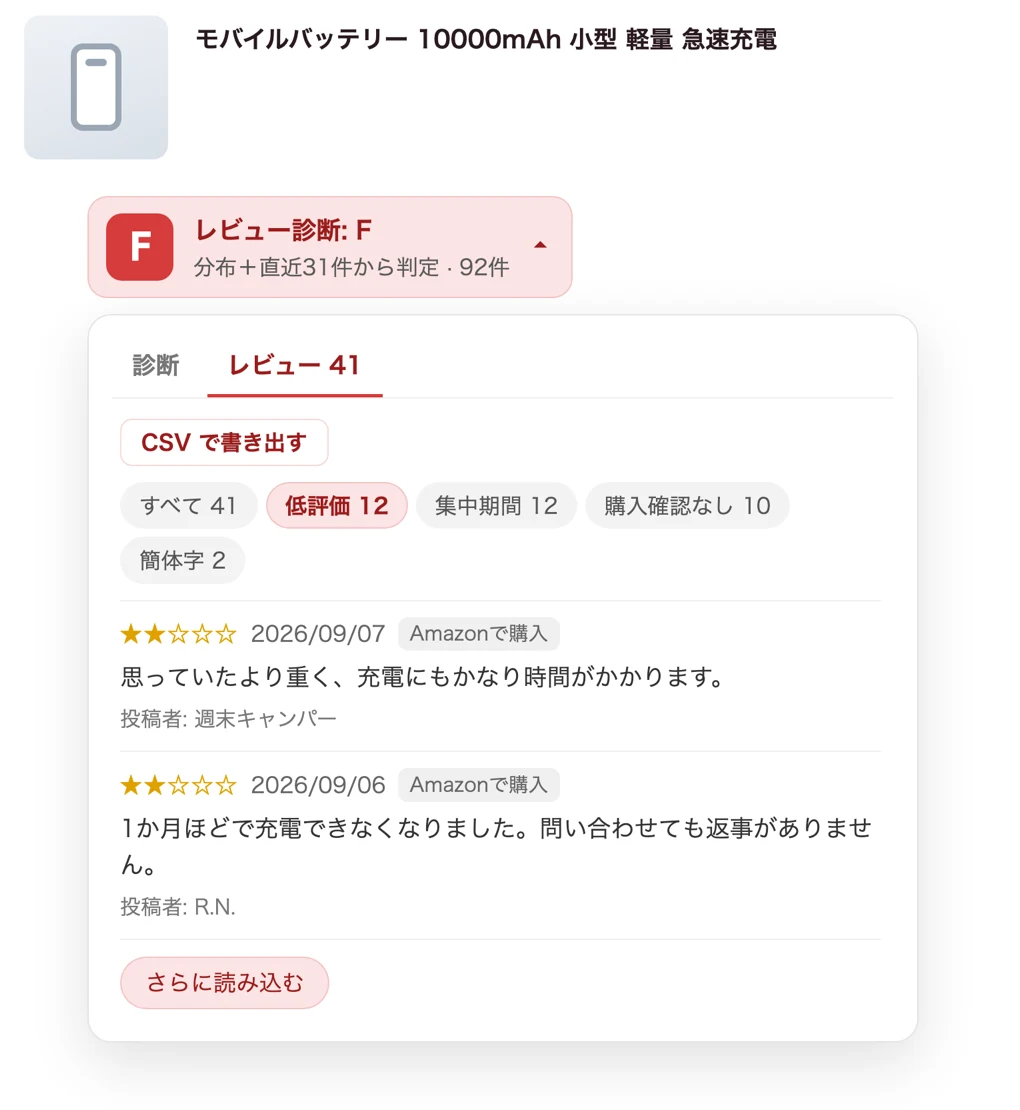
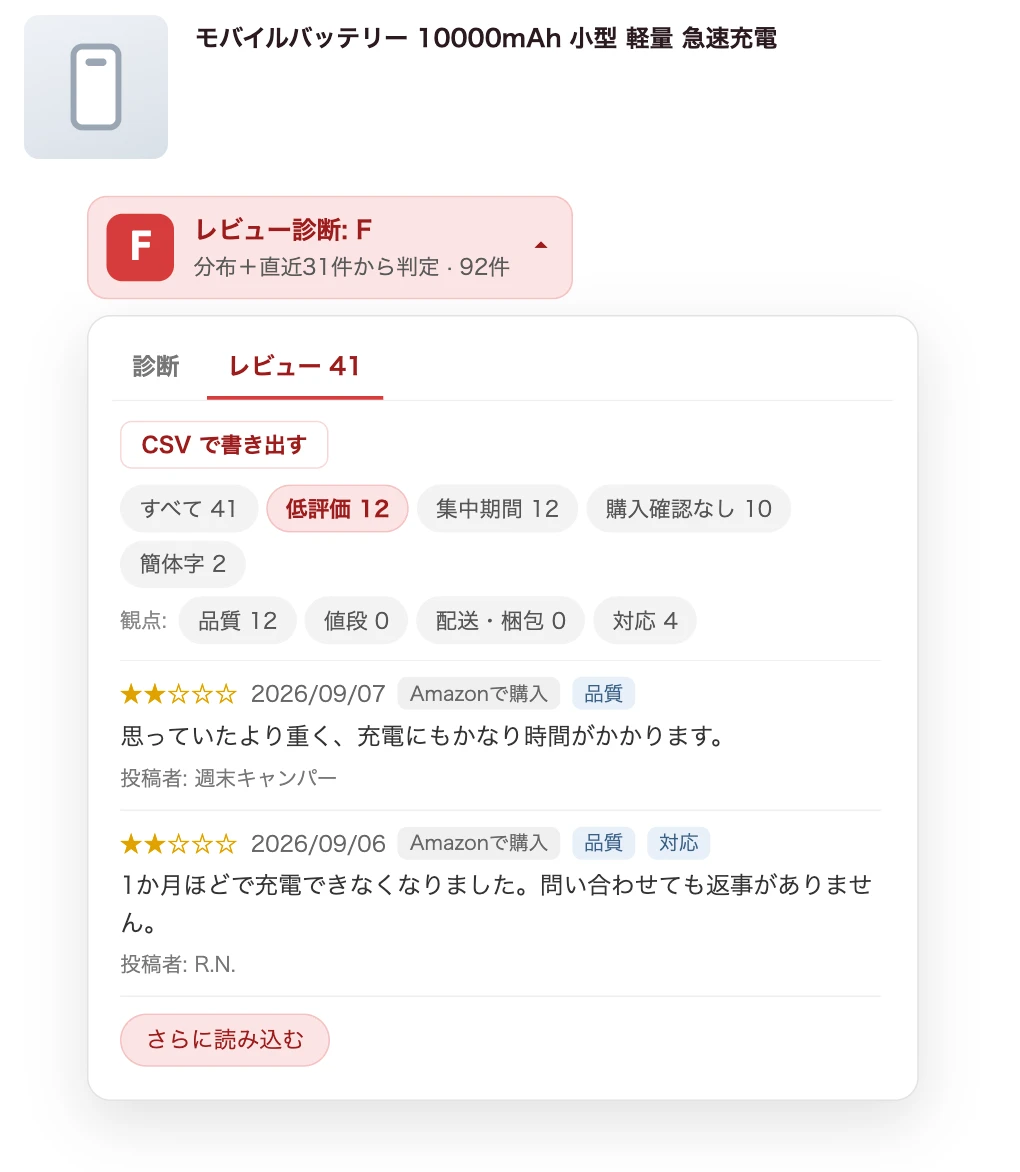
feat: サクラ診断 0.4.0 の観点の絞り込みと、新しい注記を紹介ページとサポートページに書く
- 紹介ページのレビュータブの欄に、品質、値段、配送・梱包、対応の観点での絞り込みを足し、
  画面の例を観点の段とタグが写るものにする（ストア画像と同じテンプレートから撮った）
- サポートページの使い方に観点を、CSV の列に「観点」を足す
- 取り込めないときの対処に、0.4.0 の注記（途中で失敗したとき・新しい順のレビューが見つからなかったとき）を足す

Claude-Session: https://claude.ai/code/session_01C9oCtJGptdGBWkgaWKjvUe

diff --git a/sakura-grade/support.html b/sakura-grade/support.html
@@ -36,6 +36,7 @@
       <li>バッジをクリックするとパネルが開きます。「診断」タブでは判定の理由・評価分布・週ごとの投稿タイムライン、「レビュー」タブでは取り込んだレビューの一覧が見られます。</li>
       <li>Amazon に<strong>ログインしていると</strong>、新しい順のレビューを読み込んで、短期間の高評価の集中・「Amazonで購入」の付かない★5の多さ・中国語簡体字が混じる高評価も判定し、グレードに反映します。ログインしていないときは、評価分布だけで判定します。</li>
       <li>「レビュー」タブでは、低評価・集中期間・購入確認なし・簡体字で絞り込めます。一覧の下までスクロールすると続きを読み込みます（続きの分は表示するだけで、判定には使いません）。</li>
+      <li>その下の「観点」で、品質、値段、配送・梱包、対応の話をしているレビューに絞り込めます。上の絞り込みと組み合わせられ、もう一度押すと外れます。観点はレビューの言葉から付ける目安で、グレードには使いません。</li>
       <li>対応端末では、パネルを開いたときに<strong>端末内AI</strong>がレビュー文を解析し、サクラ度・不自然な点・低評価の要点を表示します。</li>
     </ul>
 
@@ -49,7 +50,7 @@
     <h2>CSV の書き出し</h2>
     <ul>
       <li>「レビュー」タブの<strong>「CSV で書き出す」</strong>を押すと、新しい順と低評価のレビューを、それぞれ一覧の最後まで読み込んで CSV ファイルに保存します。</li>
-      <li>列は ASIN・レビューID・日付・国・評価・タイトル・本文・購入確認・Vine・参考になった数・取得元・URL です。<strong>投稿者名は含めません。</strong></li>
+      <li>列は ASIN・レビューID・日付・国・評価・タイトル・本文・購入確認・Vine・参考になった数・取得元・URL・観点です。<strong>投稿者名は含めません。</strong></li>
       <li>Excel などでそのまま開けるように、UTF-8（BOM 付き）で保存します。保存先は、ブラウザのダウンロードの設定に従います。</li>
       <li>Amazon のレビュー一覧は、1つの並べ方につき100件までしか表示されません。そのため、書き出せるのは新しい順と低評価それぞれ最大100件です。</li>
       <li>Amazon にログインしていて、レビューを取り込めたときだけ書き出せます。</li>
@@ -74,7 +75,8 @@
     <ul>
       <li>Amazon にログインしているか確認してください。ログインしていないときは、パネルに「Amazon にログインすると、新しい順のレビューを取り込んで集中投稿も診断します」と表示され、評価分布だけで判定します。</li>
       <li>「Amazon から確認画面が返されたため、レビューの取り込みを中止しました」と表示されたときは、しばらく時間をおいてから商品ページを開き直してください。</li>
-      <li>「レビューの取り込みに失敗したため…」と表示されたときは、ページを再読み込みしてください。直らない場合は、Amazon にログインし直してからお試しください。</li>
+      <li>「レビューの取り込みに失敗したため…」または「レビューの取り込みが途中で失敗したため…」と表示されたときは、ページを再読み込みしてください。直らない場合は、Amazon にログインし直してからお試しください。途中で失敗したときは、取り込めた分で集中投稿を判定しています。</li>
+      <li>「新しい順のレビューが見つからなかったため…」と表示されたときは、文章のあるレビューがまだ無い商品か、レビューを読み取れなかったときです。</li>
     </ul>
 
     <h2>プライバシー</h2>

diff --git a/sakura-grade/index.html b/sakura-grade/index.html
@@ -422,13 +422,14 @@
             <h3>気になるレビューを、商品ページのまま確認</h3>
             <p>取り込んだレビューを、低評価・集中期間・購入確認なし・簡体字で絞り込んで読めます。一覧の下までスクロールすると、続きもその場で読み込めます。</p>
             <ul class="points">
+              <li><span>品質、値段、配送・梱包、対応の観点でも絞り込めます<span class="sub">「低評価のうち品質の話だけ」のように組み合わせられます</span></span></li>
               <li><span>「CSV で書き出す」で表にして保存<span class="sub">新しい順と低評価のレビューを、それぞれ最大100件</span></span></li>
               <li><span>日付・★・タイトル・本文などの列で、Excel などで自由に分析できます</span></li>
               <li><span>投稿者名は書き出しません</span></li>
             </ul>
           </div>
           <div>
-            <div class="shot"><img src="/sakura-grade/screenshots/03-reviews.webp" width="1020" height="1110" loading="lazy" alt="パネルの「レビュー」タブ。絞り込みのボタン、CSV で書き出すボタン、低評価のレビュー一覧" /></div>
+            <div class="shot"><img src="/sakura-grade/screenshots/03-reviews.webp" width="1020" height="1172" loading="lazy" alt="パネルの「レビュー」タブ。絞り込みと観点のボタン、CSV で書き出すボタン、観点のタグが付いた低評価のレビュー一覧" /></div>
             <p class="shot-cap">架空の商品で表示した例です</p>
           </div>
         </div>
